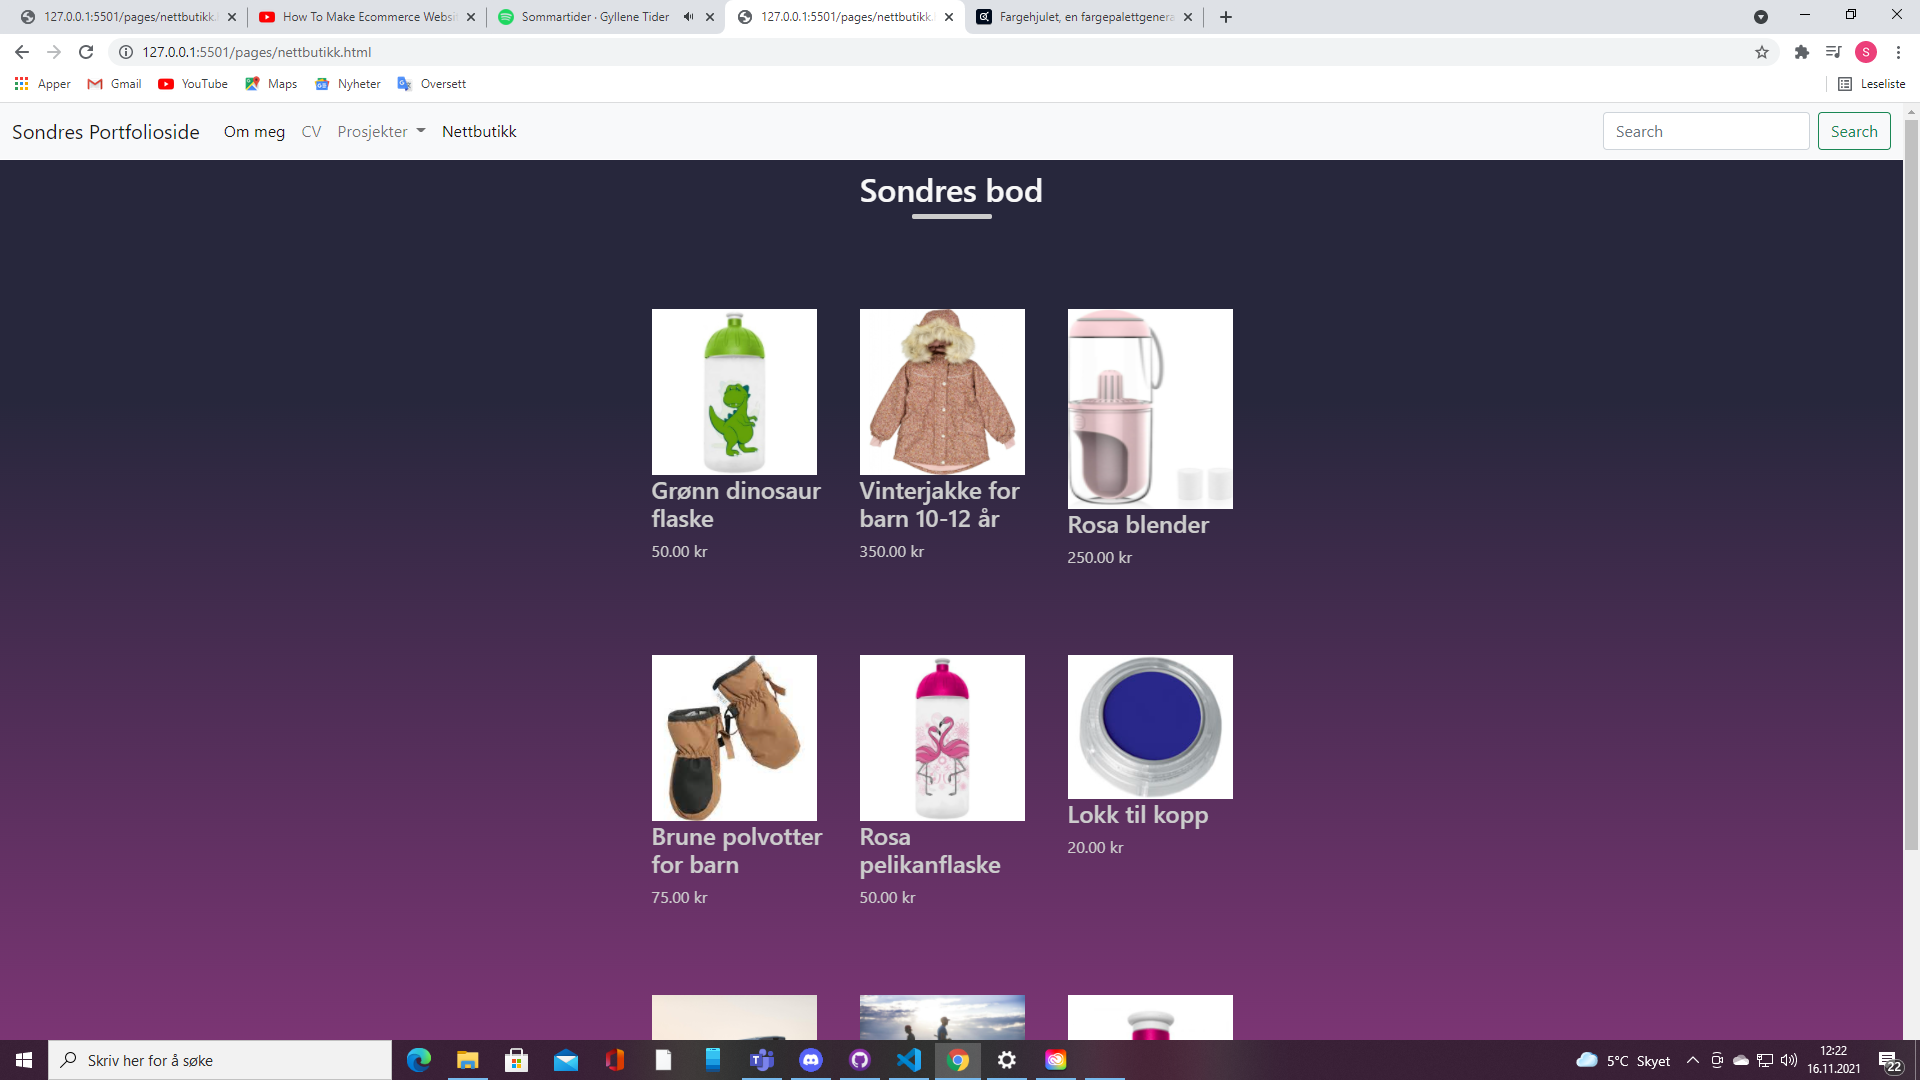
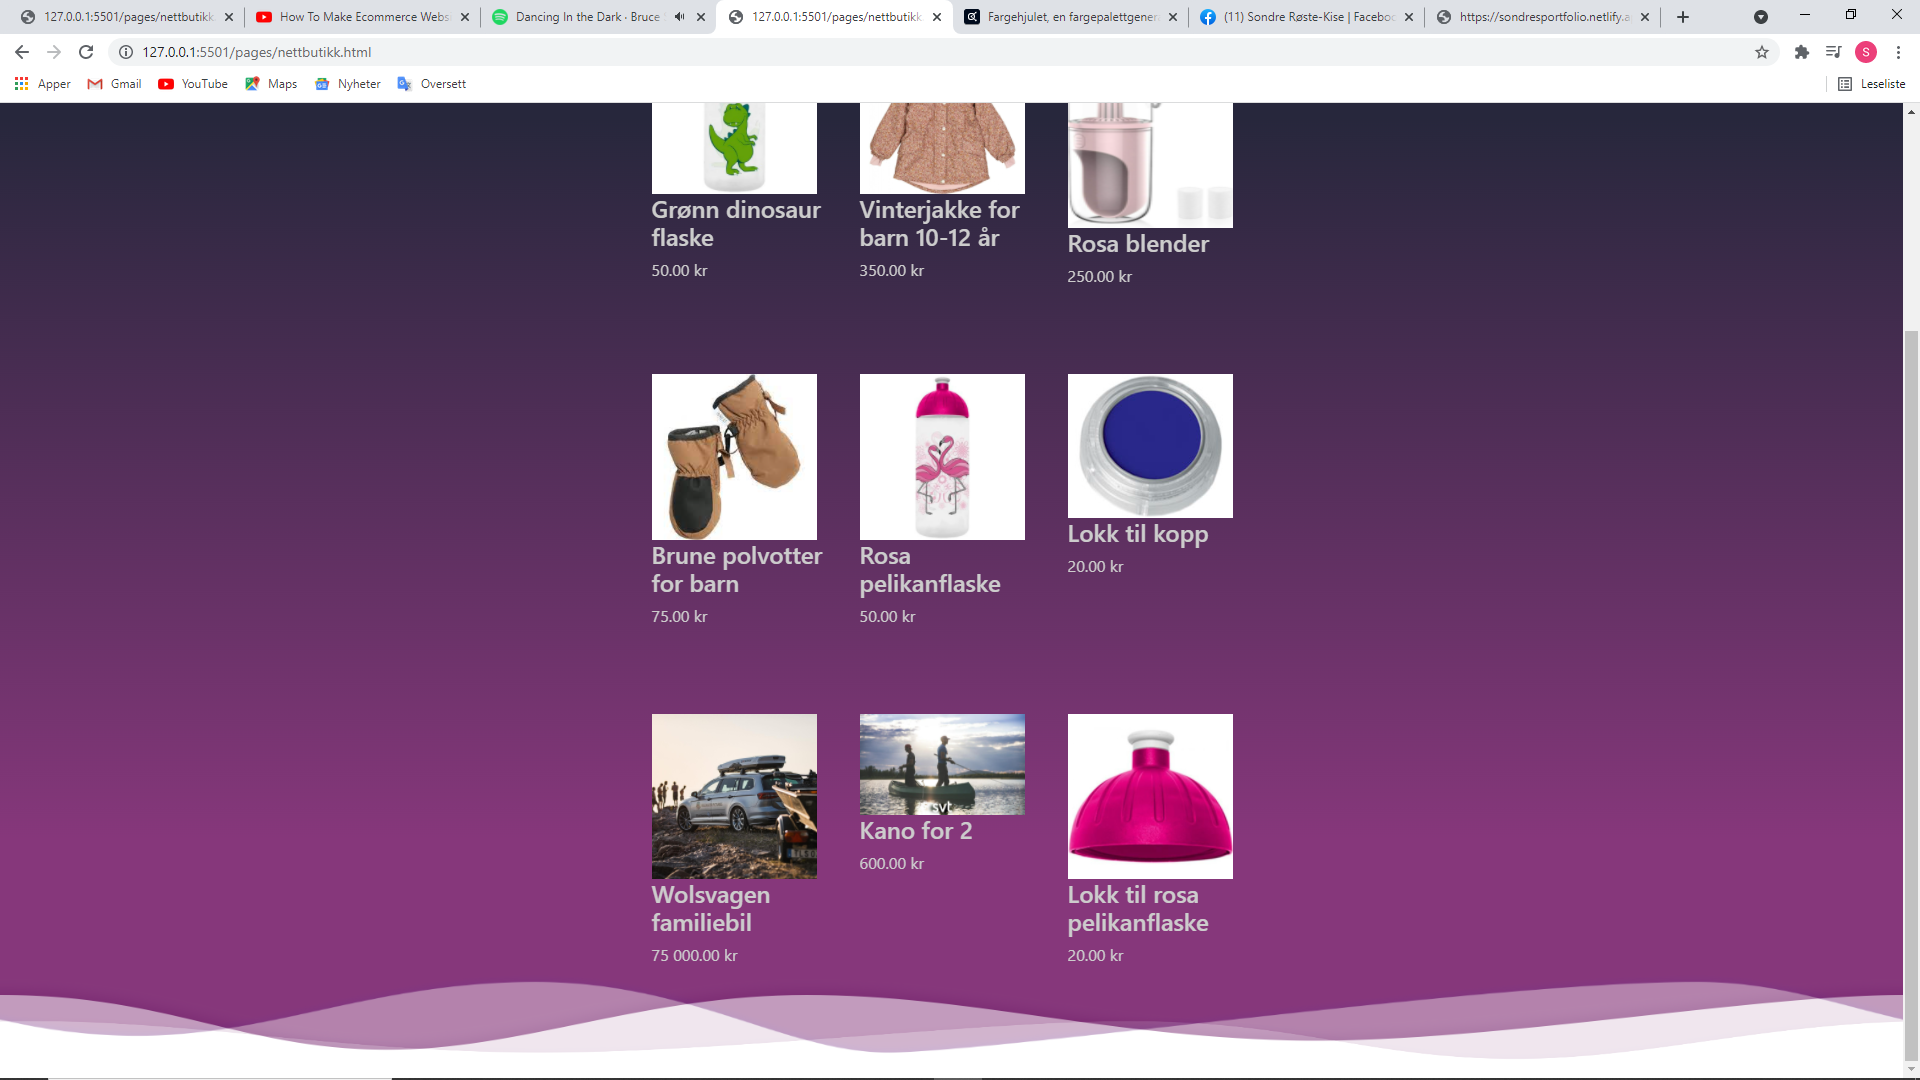
pic

diff --git a/style/style.css b/style/style.css
@@ -327,7 +327,7 @@ color: #cccccc;
 }
 .overskrift_nettbutikk::after{
     content: '';
-    background: #ccc;
+    background: #c29bbd;
     width: 80px;
     height: 5px;
     border-radius: 5px;
